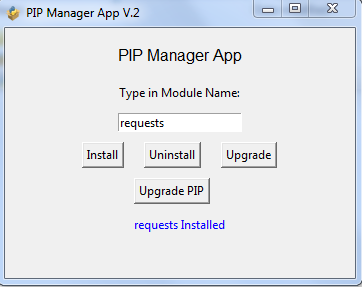
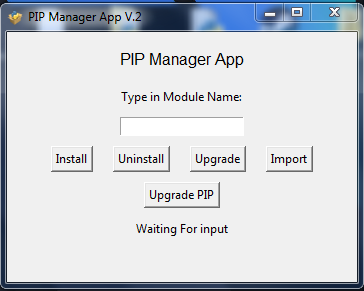
Add files via upload

diff --git a/PIP_Manager.py b/PIP_Manager.py
@@ -3,6 +3,7 @@ import os
 import subprocess
 import sys
 import win32gui, win32con
+import importlib
 
 the_program_to_hide = win32gui.GetForegroundWindow()
 win32gui.ShowWindow(the_program_to_hide , win32con.SW_HIDE)
@@ -62,6 +63,18 @@ def upgrade_pip():
     except Exception as e:
         print(e)
         lb23.config(text=e, fg="red")
+
+def test_import():
+    try:
+        f = user.get()
+        importlib.import_module(f)
+        lb23.config(text=f"{f} does exist", fg="blue")
+
+    except Exception as e:
+        subprocess.check_call([sys.executable, "-m", "pip", "install", f])
+        lb23.config(text=f"{f} Could not be imported but now its installed ", fg="blue")
+        
+        
     
 
 controls_frame = Frame()
@@ -70,7 +83,9 @@ controls_frame.pack()
 install_btn = Button(controls_frame, text="Install", command=install).grid(row=0, column=0, padx=10)
 uninstall_btn = Button(controls_frame, text="Uninstall", command=uninstall).grid(row=0, column=1, padx=10)
 upgrade_btn = Button(controls_frame, text="Upgrade", command=upgrade).grid(row=0, column=2, padx=10)
-upgrade_pip_btn = Button(controls_frame, text="Upgrade PIP", command=upgrade_pip).grid(row=1, column=1, pady=10)
+import_btn = Button(controls_frame, text="Import", command=test_import).grid(row=0, column=3, padx=10)
+upgrade_pip_btn = Button(root, text="Upgrade PIP", command=upgrade_pip).pack(pady=10)
+
 
 global lb23
 lb23 = Label(root, text="Waiting For input")
